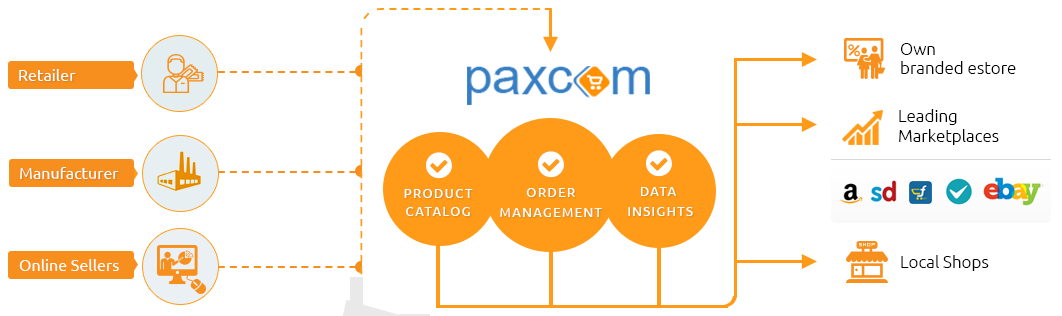
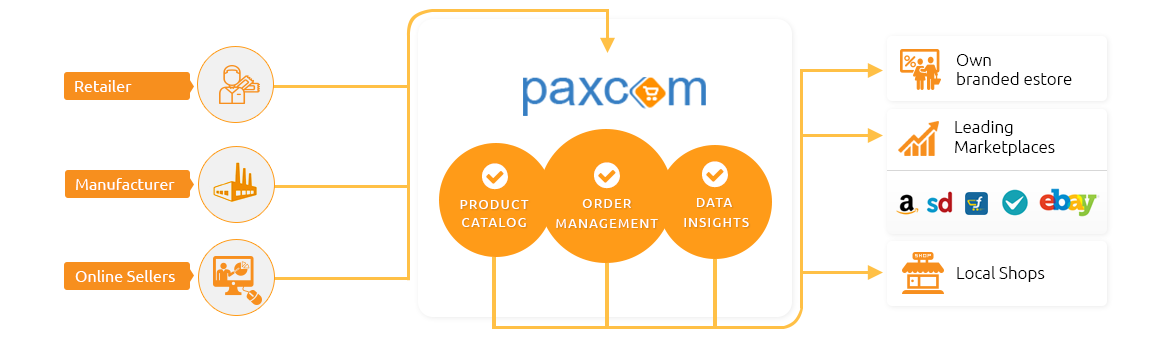
update css and image

diff --git a/css/style.css b/css/style.css
@@ -772,7 +772,7 @@ padding:120px 20px 0 20px;
   stroke-dasharray: 760;
 }
 
-.bg-gray{ background-color:#e9e9e9; padding:70px 0;}
+.bg-gray{ background-color:#F1F1F1; padding:70px 0;}
 .mirchimart-section{ padding:70px 0;}
 
 
